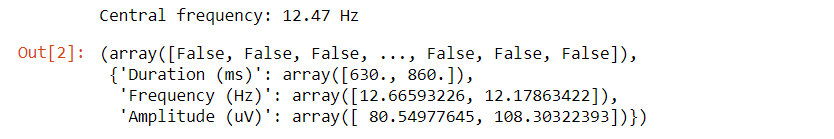
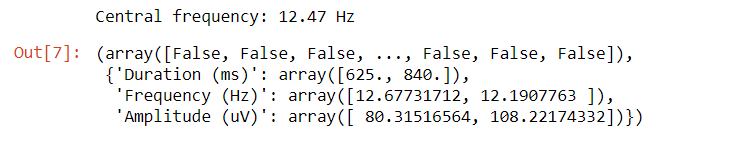
Normalized wavelet power

diff --git a/spindles.html b/spindles.html
@@ -120,8 +120,8 @@
        <pre><code class="python">import numpy as np
 import seaborn as sns
 import matplotlib.pyplot as plt
-from scipy.signal import detrend, periodogram
-from mne.time_frequency import morlet, psd_array_welch
+from scipy.signal import detrend
+from mne.time_frequency import morlet
 
 # Load the data
 x = np.loadtxt('data_spindles_15s_200Hz.txt')
@@ -176,7 +176,8 @@ plt.ylabel('Amplitude [a.u.]')
 
        <p align="justify">Looks familiar, doesn't it? The two main parameters for the wavelet are the central spindles frequency and the number of oscillations. The spindles frequency is known to be strongly dependant of age (and other demographic factors) so it is important to adjust this parameter to your data.
          Alternatively, as we'll see later, you can simply compute a power spectrum of the signal and find the peak frequency within the 11 to 16 Hz range. The number of oscillations controls the trade-off between time and frequency resolution: the larger it is, the more specific the wavelet is to this specific central frequency. By contrast, the smaller this number is, the better the temporal resolution of our wavelet is. For spindles detection, default values of 7 or 12 are usually very good compromises.
-         <br><br>Now that we have our wavelet, let's convolve it (i.e slide it through) our signal, and then apply a threshold. For the sake of this tutorial, I chose a very naive and purely arbitrary 90% percentile threshold, i.e. spindles are the 10% higher values of our wavelet-convolved signal. For much longer signal and/or periods including other sleep stages, it might be a good idea to used a fixed rather than a percentile threshold.
+         <br><br>Now that we have our wavelet, let's convolve it (i.e slide it through) our signal, and then apply a threshold. To further increase sensitivity, we will square the wavelet-convolved signal (i.e. take the power) and then normalize it from 0 to 1. This last step is important to allow for a reproducible threshold (i.e. that is not dependant of the original data).
+          For the sake of this tutorial, we'll use a very simple and arbitrary fixed threshold of 0.25.
        </p>
 
        <pre><code class="python"># Convolve the wavelet and extract magnitude and phase
@@ -184,11 +185,15 @@ analytic = np.convolve(x, wlt, mode='same')
 magnitude = np.abs(analytic)
 phase = np.angle(analytic)
 
+# Square and normalize the magnitude from 0 to 1 (using the min and max)
+power = np.square(magnitude)
+norm_power = (power - power.min()) / (power.max() - power.min())
+
 # Define the threshold
-thresh = np.percentile(magnitude, q=90)
+thresh = 0.25
 
 # Find supra-threshold values
-supra_thresh = np.where(magnitude >= thresh)[0]
+supra_thresh = np.where(norm_power >= thresh)[0]
 
 # Create vector for plotting purposes
 val_spindles = np.nan * np.zeros(x.size)
@@ -202,16 +207,18 @@ ax1.set_xlim(0, times[-1])
 ax1.set_ylabel('Voltage [uV]')
 ax1.set_title('Cz EEG signal')
 
-ax2.plot(times, magnitude)
+ax2.plot(times, norm_power)
 ax2.set_xlabel('Time [sec]')
-ax2.set_ylabel('Magnitude')
-ax2.axhline(thresh, ls=':', color='indianred', label='90% threshold')
+ax2.set_ylabel('Normalized wavelet power')
+ax2.axhline(thresh, ls='--', color='indianred', label='Threshold')
+ax2.fill_between(times, norm_power, thresh, where = norm_power >= thresh,
+                 color='indianred', alpha=.8)
 plt.legend(loc='best')
 </code></pre>
 
       <span class="image fit"><img src="images/tutorials/spindles/supra_thresh.png" alt="Supra-threshold" /></span>
 
-      <p align="justify">Well, we can see that our simple wavelet convolution and arbitrary thresholding do an excellent job at identifying the two spindles in our signal! Again, rather than using a percentile threshold, one could have used a fixed threshold of 100 to obtain very similar results.
+      <p align="justify">Well, we can see that our simple wavelet convolution and arbitrary thresholding do an excellent job at identifying the two spindles in our signal!
       </p>
 
       <hr />
@@ -249,12 +256,12 @@ print(sp_params)
 
 <p align="justify">Which should return:</p>
 
-<blockquote>Duration (ms)  : [670., 820.]<br>
-            Frequency (Hz) : [12.79, 12.28]<br>
-            Amplitude (uV) : [83.27, 108.55]</blockquote>
+<blockquote>Duration (ms)  : [725., 870.]<br>
+            Frequency (Hz) : [12.79, 12.30]<br>
+            Amplitude (uV) : [85.87, 116.79]</blockquote>
 
       <p align="justify">Good news, our detected spindles are likely to be true spindles: their durations, amplitudes and frequencies are consistent with what we know about the typical morphology of spindles.
-        From that point, there are many ways to improve this simple detection. For instance, we know that according to the AASM definition spindles must last at least 0.5 seconds, so it would be easy to reject all the detected events that are, say, less than 0.4-0.5 seconds.
+        Using these values, there are many ways to improve this simple detection. For instance, we know that according to the AASM definition spindles must last at least 0.5 seconds, so it would be easy to reject all the detected events that are, say, less than 0.4-0.5 seconds.
         Likewise, we could apply thresholds for the frequency and the amplitude.</p>
 
 
@@ -264,7 +271,7 @@ print(sp_params)
 
         <pre><code class="python">import numpy as np
 
-def spindles_detect(x, sf, perc_thresh=90, wlt_params={'nc': 12, 'cf': 'auto'}):
+def spindles_detect(x, sf, thresh=0.25, wlt_params={'nc': 12, 'cf': 'auto'}):
     """Simple spindles detector based on Morlet wavelet.
 
     Parameters
@@ -273,8 +280,8 @@ def spindles_detect(x, sf, perc_thresh=90, wlt_params={'nc': 12, 'cf': 'auto'}):
         EEG signal
     sf : float
         Sampling frequency
-    perc_thresh : float
-        Percentile threshold (0 - 100)
+    thresh : float
+        Threshold (0 - 1)
     wlt_params : dict
         Morlet wavelet parameters ::
 
@@ -300,12 +307,15 @@ def spindles_detect(x, sf, perc_thresh=90, wlt_params={'nc': 12, 'cf': 'auto'}):
     # Compute the wavelet and convolve with data
     wlt = morlet(sf, [wlt_params['cf']], n_cycles=wlt_params['nc'])[0]
     analytic = np.convolve(x, wlt, mode='same')
-    magnitude = np.abs(analytic)
     phase = np.angle(analytic)
 
+    # Square and normalize the magnitude from 0 to 1 (using the min and max)
+    power = np.square(np.abs(analytic))
+    norm_power = (power - power.min()) / (power.max() - power.min())
+
     # Find supra-threshold values and indices
-    supra_thresh_bool = magnitude >= np.percentile(magnitude, q=perc_thresh)
-    supra_thresh_idx = np.where(supra_thresh_bool)[0]
+    supra_thresh_bool = norm_power >= thresh
+    supra_thresh_idx = np.where(norm_power >= thresh)[0]
 
     # Extract duration, frequency and amplitude of spindles
     sp = np.split(supra_thresh_idx, np.where(np.diff(supra_thresh_idx) != 1)[0] + 1)
@@ -325,7 +335,7 @@ def spindles_detect(x, sf, perc_thresh=90, wlt_params={'nc': 12, 'cf': 'auto'}):
 # Run the function
 x = np.loadtxt('data_spindles_15s_200Hz.txt')
 sf = 200
-spindles_detect(x, sf, perc_thresh=90)
+spindles_detect(x, sf, thresh=0.25)
 </code></pre>
 
     <p>Which should return:</p>
